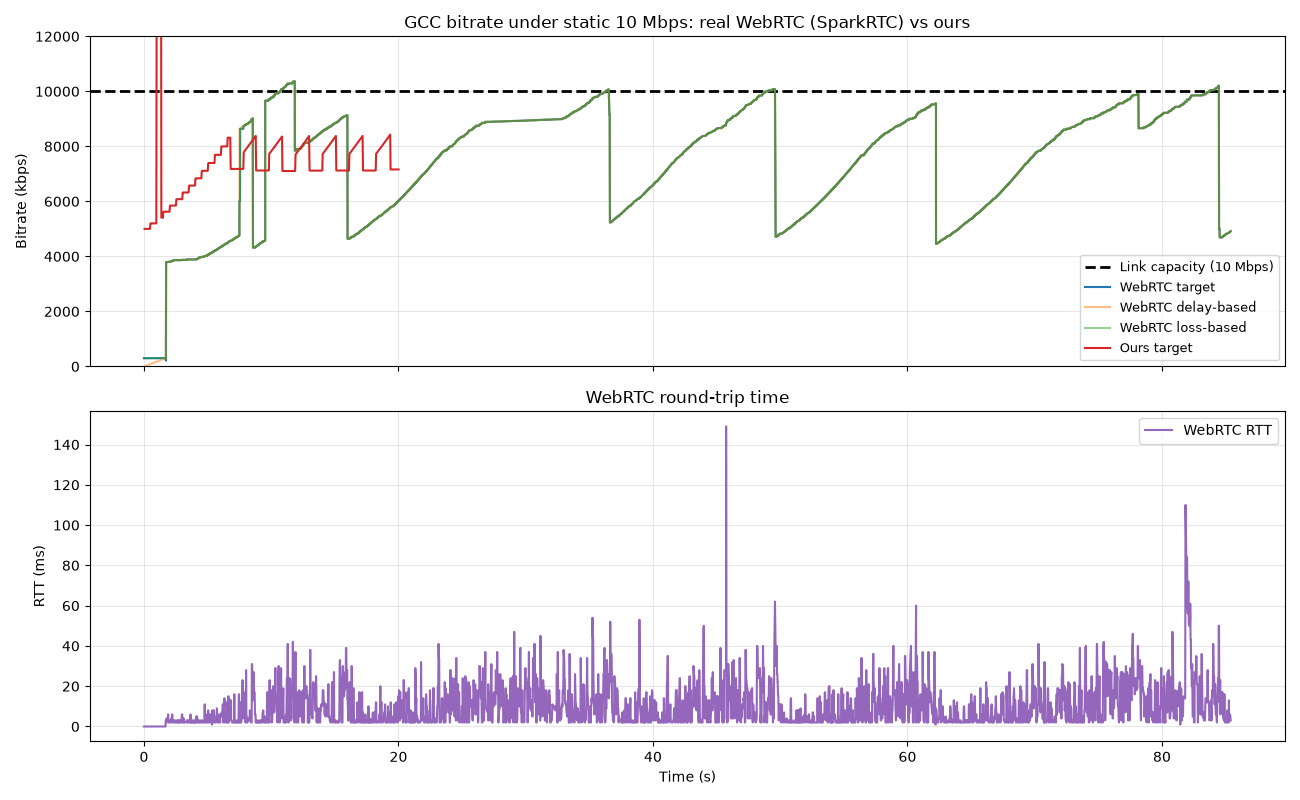
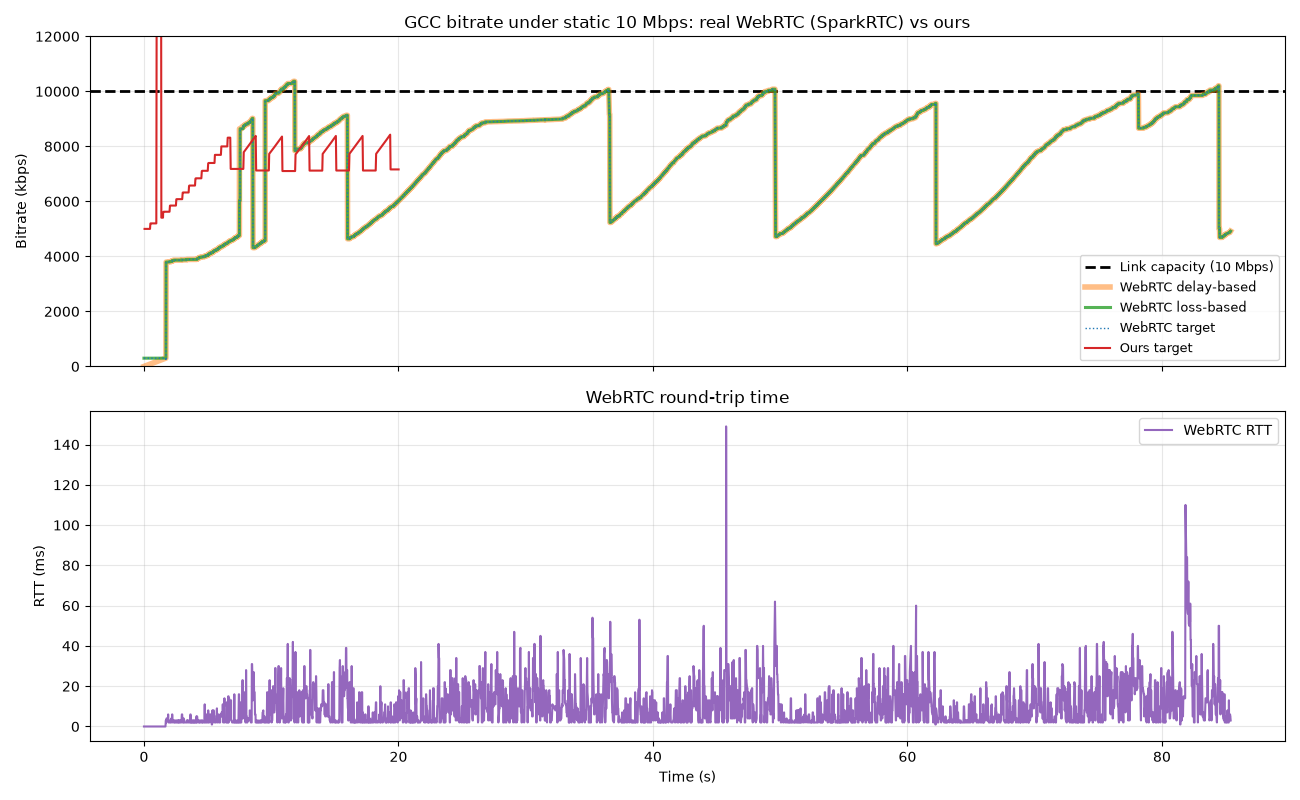
Fix WebRTC plot: distinct line styles so all 3 estimators visible
The delay-based line was hidden under loss-based — in real WebRTC the two
coincide 99.7% of samples (4799/4813) because the loss-based estimator is
seeded from the delay-based estimate. Draw delay-based thick/faded,
loss-based medium, target thin-dotted so overlapping lines stay visible.

Confirmed delay-based IS present in the data; only 14 transient rows
(during ramp-up) show delay != loss.

diff --git a/scripts/plot_webrtc_gcc.py b/scripts/plot_webrtc_gcc.py
@@ -47,12 +47,17 @@ def main():
     # Link capacity reference (static 10 Mbps)
     ax1.axhline(10000, color="black", linestyle="--", linewidth=2,
                 label="Link capacity (10 Mbps)")
-    ax1.plot(wt, [r["target_kbps"] for r in wrows], color="C0",
-             label="WebRTC target", linewidth=1.5)
+    # NOTE: in real WebRTC the loss-based estimator is seeded with the
+    # delay-based estimate, so target/delay-based/loss-based coincide ~99.7%
+    # of the time. Draw them with distinct styles + widths so overlapping
+    # lines remain individually visible (otherwise the last-drawn line hides
+    # the others).
     ax1.plot(wt, [r["delay_based_kbps"] for r in wrows], color="C1",
-             alpha=0.5, label="WebRTC delay-based")
+             linewidth=4, alpha=0.5, label="WebRTC delay-based")
     ax1.plot(wt, [r["loss_based_kbps"] for r in wrows], color="C2",
-             alpha=0.5, label="WebRTC loss-based")
+             linewidth=2.2, alpha=0.8, label="WebRTC loss-based")
+    ax1.plot(wt, [r["target_kbps"] for r in wrows], color="C0",
+             linewidth=1.0, linestyle=":", label="WebRTC target")
     if our_rows:
         ot = [r["t_sec"] for r in our_rows]
         ax1.plot(ot, [r["target_kbps"] for r in our_rows], color="C3",
